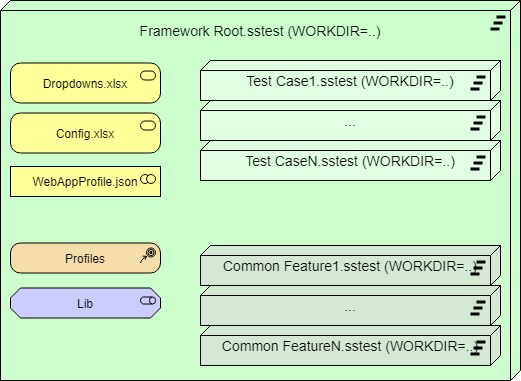
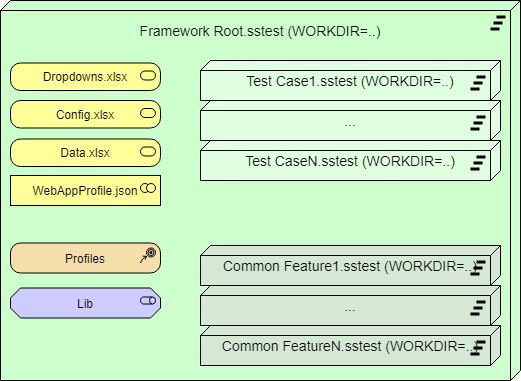
Data.xlsx explained

Changed region(s): [[0.0, 0.1732, 0.3071, 0.5486]]

diff --git a/docs/Intro/framework.md b/docs/Intro/framework.md
@@ -44,7 +44,7 @@ The test opens in the current Rapise instance. You may also open it in a new win
 
 Usual practice in Framework is to use the [Clone](../Guide/tests_and_sub_tests.md#sub-test-context-menu) feature to produce new sub-tests. So the template test is created and pre-configured (to contain right lib, functions and file references) and then replicated for each next cloned test case.
 
-![Coone](../Guide/img/framework_template_clone.png)
+![Clone](../Guide/img/framework_template_clone.png)
 
 ### Calling Other Tests
 
@@ -76,21 +76,25 @@ From RVL:
 From JS:
 [Global.DoInvokeTestParallel](../Libraries/Global.md#doinvoketestparallel)
 
-### Config.xlsx
-
-There is a [Config](../Libraries/Global.md#SetConfigPath) file, that may be used for further [Global.GetProperty](../Libraries/Global.md#getproperty) and [Global.SetProperty](/Libraries/Global/#setproperty). This is an easy way to read and store various input configuration data: logins, URLs as well as output data (i.e. Internal Invoice ID used in the subsequent test cases).
-
-It is also explained in [this](https://youtu.be/GDbRA2WyQfQ?list=PL1GncVUgF5nsawBrTNYbBY-eUnccO5YZj&t=534) video.
-
 ### Dropdowns.xlsx
 
 Shared Libraries and Shared Functions more powerful with pre-defined [dropdowns](../Guide/rvl_editor.md#param-dropdowns). For example, you may have a function `NavigateToModule` used across your framework and switching to an application module. Since we have fixed number of modules in the app (it may be a big number, but still fixed) we may define a dropdown list to make it easier for test creator to navigate without risk of doing a typo and without loss of time to find correct naming.
 
 ![Param Dropdown](../Guide/img/framework_dropdowns.png)
 
+### Config.xlsx
+
+There is a [Config](../Libraries/Global.md#SetConfigPath) file, that may be used for further [Global.GetProperty](../Libraries/Global.md#getproperty) and [Global.SetProperty](/Libraries/Global/#setproperty). This is an easy way to read and store various input configuration data: logins, URLs as well as output data (i.e. Internal Invoice ID used in the subsequent test cases).
+
+It is also explained in [this](https://youtu.be/GDbRA2WyQfQ?list=PL1GncVUgF5nsawBrTNYbBY-eUnccO5YZj&t=534) video.
+
+### Data.xlsx
+
+It is typical implement some test cases as [data driven](../Intro/ddt.md). And framework is a great place for storing the shared data files - usually `.xlsx` spreadsheets. Rapise has built in capabilities for [creating](../Guide/test_files_dialog.md#context-menu-folder) and [editing](../Guide/spreadsheet_editor.md) such spreadsheets.
+
 ### Global Objects
 
-It is useful to have one or more application specific [global object](../Guide/global_objects.md) sharing functionality needed by majority of test cases in your framework. It may anything, starting from login and navigation and up to string formatting or text validation.
+It is useful to have one or more application specific [global objects](../Guide/global_objects.md), sharing functionality needed by majority of test cases in your framework. It may do anything, starting from login and navigation and up to string formatting or text validation.
 
 ![Global Object](../Guide/img/framework_global_object.png)
 
